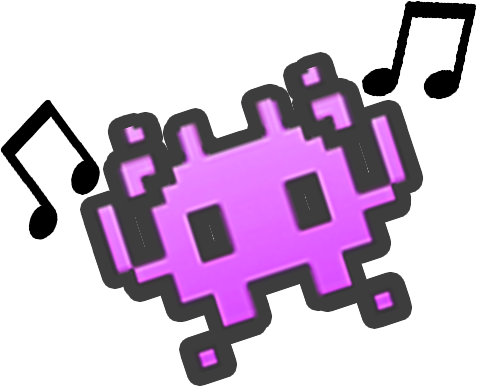
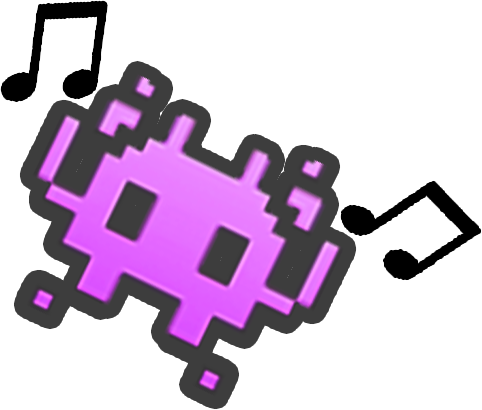
site stuff

diff --git a/bookmarklet/css/main.css b/bookmarklet/css/main.css
@@ -1,5 +1,17 @@
 .icon-arrow-up {
-  margin-left: 5px;
+  margin-left: 10px;
+}
+li {
+  font-size: 18px;
+  line-height: 1.5em;
+  padding: 3px 0;
+}
+
+#sound-invader {
+  position: absolute;
+  right: 110px;
+  top: 30px;
+  -webkit-transform: rotate(5deg);
 }
 
 
